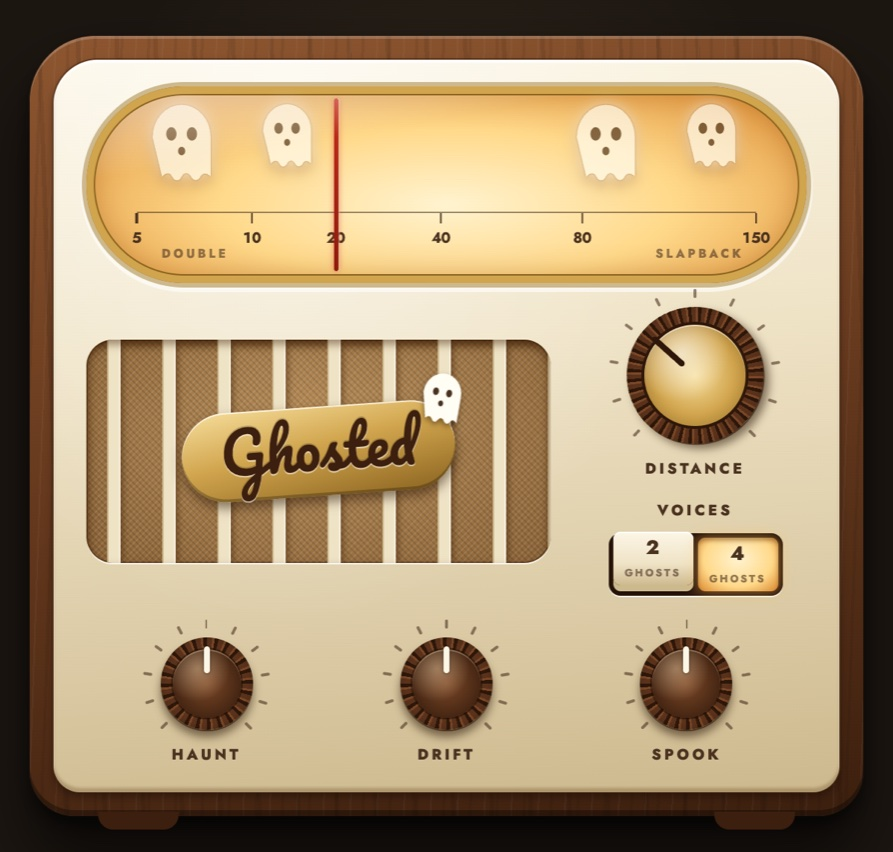
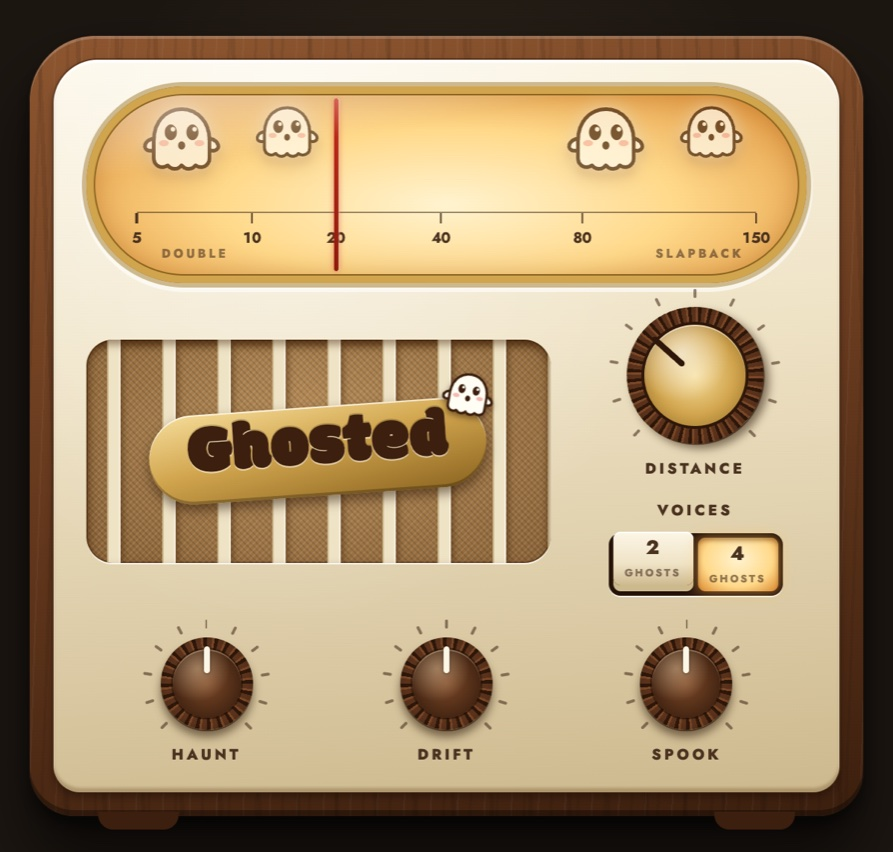
Puff up the wordmark and the ghosts
Pacifico read as too commercial. The wordmark is now Modak, a bloated,
pillowy display face, subset to the wordmark's glyphs and embedded the
same way (1.7 KB).

The ghosts follow it: chubbier bodies with three fat lobes, stubby
arms, a thick walnut outline like Modak's weight, shiny eyes and
blushing cheeks. Each eye and its shine scale together with Spook, as a
group. The dial ghosts are a little bigger to carry the outline.

Claude-Session: https://claude.ai/code/session_01M6vpxS7uJymS9LZEHVkPaW

diff --git a/ui/index.html b/ui/index.html
@@ -11,8 +11,8 @@
   }
 
   @font-face {
-    font-family: "Pacifico";
[1 lines of base64/hex data omitted]
+    font-family: "Modak";
[1 lines of base64/hex data omitted]
   }
 
   :root {
@@ -167,11 +167,11 @@
     position: absolute;
     inset-block-start: 0;
     inset-inline-start: calc(var(--x) * 100%);
-    inline-size: 46px;
+    inline-size: 54px;
     translate: -50% 0;
     opacity: calc(0.35 + var(--haunt) * 0.65);
     transition: inset-inline-start 400ms ease, opacity 300ms ease;
-    filter: drop-shadow(0 0 0.6px rgb(120 60 0 / 0.7)) drop-shadow(0 0 5px rgb(255 255 255 / 0.95)) drop-shadow(0 4px 3px rgb(130 60 0 / 0.45));
+    filter: drop-shadow(0 0 6px rgb(255 250 230 / 0.9)) drop-shadow(0 4px 3px rgb(130 60 0 / 0.45));
 
     & svg {
       display: block;
@@ -180,7 +180,6 @@
       animation-delay: var(--delay);
     }
 
-    & .body { fill: var(--ghost); }
     & .eye {
       fill: var(--ink);
       transform-box: fill-box;
@@ -196,7 +195,7 @@
       transition: scale 200ms;
     }
 
-    &.loose { inline-size: 38px; }
+    &.loose { inline-size: 44px; }
     &:nth-child(1) { --x: 0; --period: 3.1s; --delay: -0.4s; }
     &:nth-child(2) { --x: 0.2; --period: 3.7s; --delay: -1.9s; }
     &:nth-child(3) { --x: 0.8; --period: 3.4s; --delay: -1.1s; }
@@ -323,9 +322,9 @@
     rotate: -4deg;
 
     & .wordmark {
-      font-family: "Pacifico", cursive;
-      font-size: 38px;
-      line-height: 1.2;
+      font-family: "Modak", sans-serif;
+      font-size: 46px;
+      line-height: 1;
       color: var(--walnut-lo);
       text-shadow: 0 1px 0 rgb(255 255 255 / 0.5), 0 -1px 0 rgb(0 0 0 / 0.2);
     }
@@ -334,12 +333,22 @@
       position: absolute;
       inset-block-start: -18px;
       inset-inline-end: -8px;
-      inline-size: 30px;
+      inline-size: 36px;
       rotate: 14deg;
       filter: drop-shadow(0 2px 2px rgb(40 20 5 / 0.5));
     }
-    & .body { fill: var(--ghost); }
-    & .eye, & .mouth { fill: var(--ink); }
+  }
+
+  :is(.ghost, .badge) {
+    & :is(.body, .arm) {
+      fill: var(--ghost);
+      stroke: var(--walnut-lo);
+      stroke-width: 2.4;
+      stroke-linejoin: round;
+    }
+    & :is(.eye, .mouth) { fill: var(--walnut-lo); }
+    & .shine { fill: var(--ghost); }
+    & .cheek { fill: rgb(240 130 120 / 0.55); }
   }
 
   .tuning {
@@ -528,11 +537,15 @@
 </head>
 <body>
 <template id="ghost">
-  <svg viewBox="0 0 40 48">
-    <path class="body" d="M3 21C3 10 11 2 20 2s17 8 17 19v23c-2.5-2.5-4.5-2.5-6 0s-4 2.8-5.5 0-4-2.8-5.5 0-4 2.8-5.5 0-3.5-2.5-6 0z"/>
-    <ellipse class="eye" cx="14" cy="19" rx="2.6" ry="3.4"/>
-    <ellipse class="eye" cx="26" cy="19" rx="2.6" ry="3.4"/>
-    <ellipse class="mouth" cx="20" cy="29" rx="2.2" ry="2.6"/>
+  <svg viewBox="-2 0 52 50">
+    <ellipse class="arm" cx="5" cy="28" rx="5" ry="3.6" transform="rotate(-28 5 28)"/>
+    <ellipse class="arm" cx="43" cy="28" rx="5" ry="3.6" transform="rotate(28 43 28)"/>
+    <path class="body" d="M6 25C6 13 14 5 24 5s18 8 18 20v12a5.5 5.5 0 0 1-9 4.3a5.5 5.5 0 0 1-9 0a5.5 5.5 0 0 1-9 0A5.5 5.5 0 0 1 6 37z"/>
+    <ellipse class="cheek" cx="12.5" cy="27" rx="3.2" ry="2"/>
+    <ellipse class="cheek" cx="35.5" cy="27" rx="3.2" ry="2"/>
+    <g class="eye"><ellipse cx="17" cy="20" rx="3.4" ry="4.4"/><circle class="shine" cx="18.2" cy="18.3" r="1.3"/></g>
+    <g class="eye"><ellipse cx="31" cy="20" rx="3.4" ry="4.4"/><circle class="shine" cx="32.2" cy="18.3" r="1.3"/></g>
+    <ellipse class="mouth" cx="24" cy="28.5" rx="2.4" ry="2.8"/>
   </svg>
 </template>
 

diff --git a/README.md b/README.md
@@ -1,6 +1,6 @@
 # Ghosted
 
-<img src="docs/ghosted.jpg" width="446" alt="Ghosted, a vintage walnut and cream bakelite radio with an amber dial full of ghosts, a brass Ghosted badge on the speaker grille, a brass Distance tuning knob, 2 and 4 ghost band keys, and Haunt, Drift and Spook knobs">
+<img src="docs/ghosted.jpg" width="446" alt="Ghosted, a vintage walnut and cream bakelite radio with an amber dial full of ghosts, a brass Ghosted badge in a puffy font on the speaker grille, a brass Distance tuning knob, 2 and 4 ghost band keys, and Haunt, Drift and Spook knobs">
 
 Drifting double-tracking for guitar, vocals or anything else, as a
 VST3 and CLAP plugin for macOS and Windows. It adds two or four delayed
@@ -110,7 +110,7 @@ before starting the host.
   [a fork](https://github.com/starzonmyarmz/nice-plug/tree/patina) that
   adds `ActivateContext::gui_context()`.
 - [Jost](https://github.com/indestructible-type/Jost) by Owen Earl and
-  [Pacifico](https://github.com/googlefonts/Pacifico) by the Pacifico Project Authors,
+  [Modak](https://github.com/EkType/Modak) by Ek Type,
   under the SIL Open Font License (`ui/fonts`).
 - Started from
   [plugin-template](https://github.com/starzonmyarmz/plugin-template).
